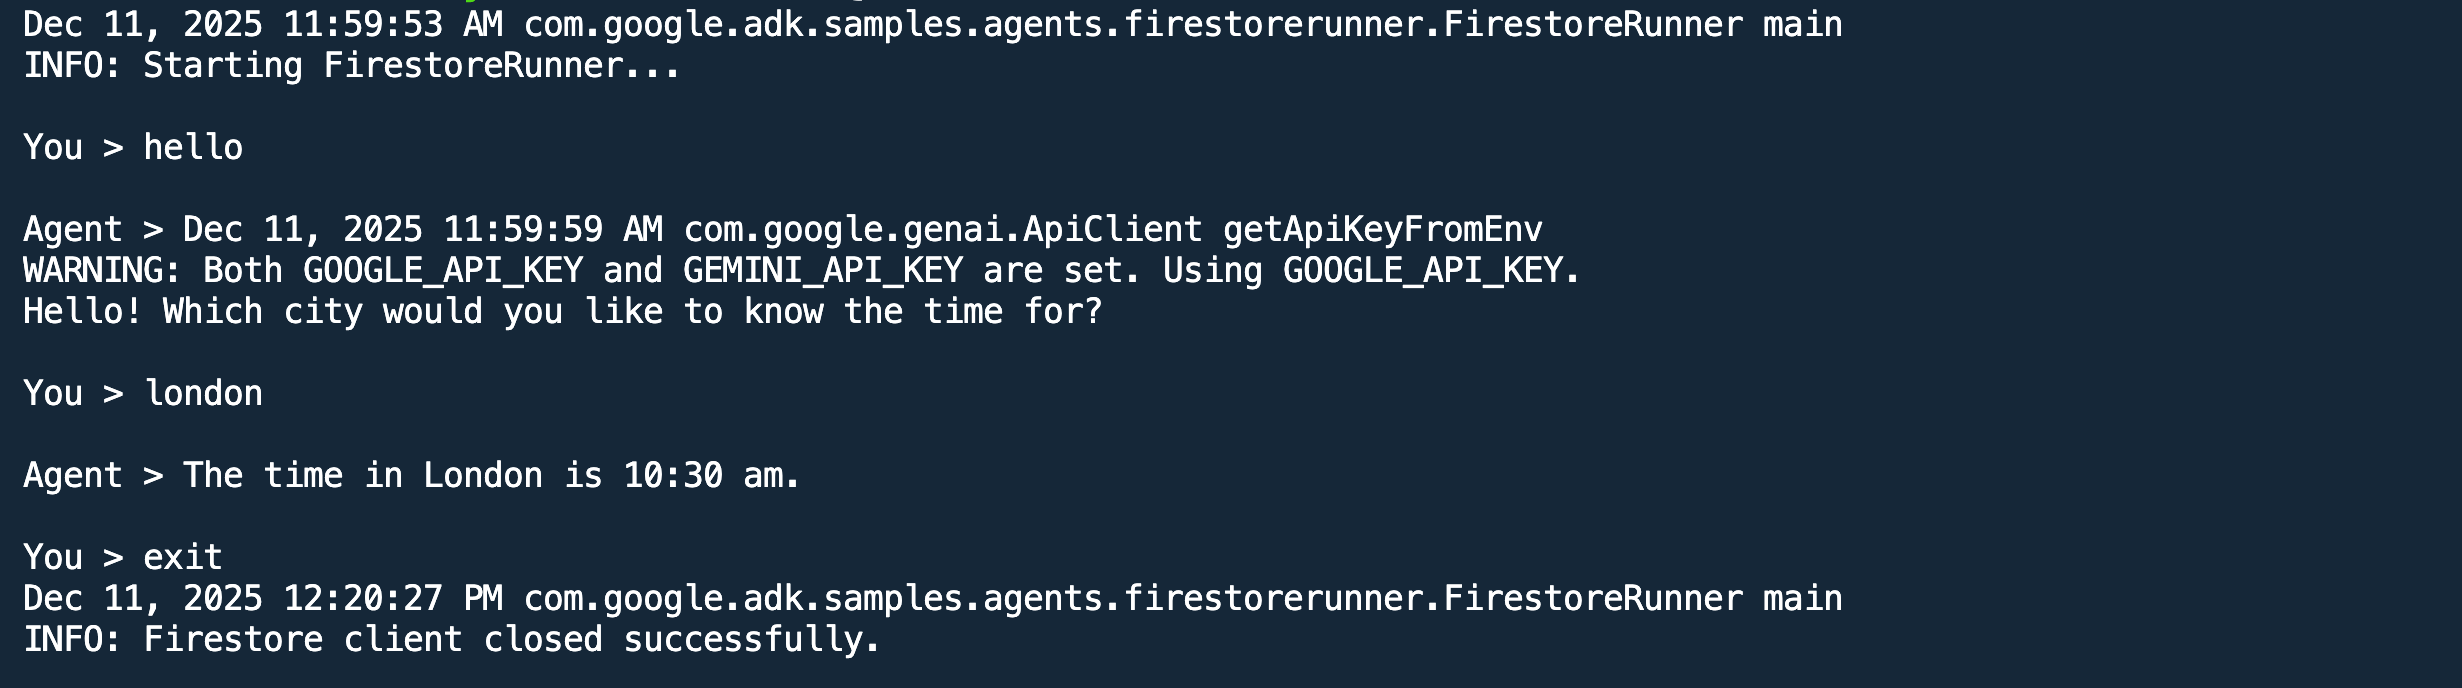
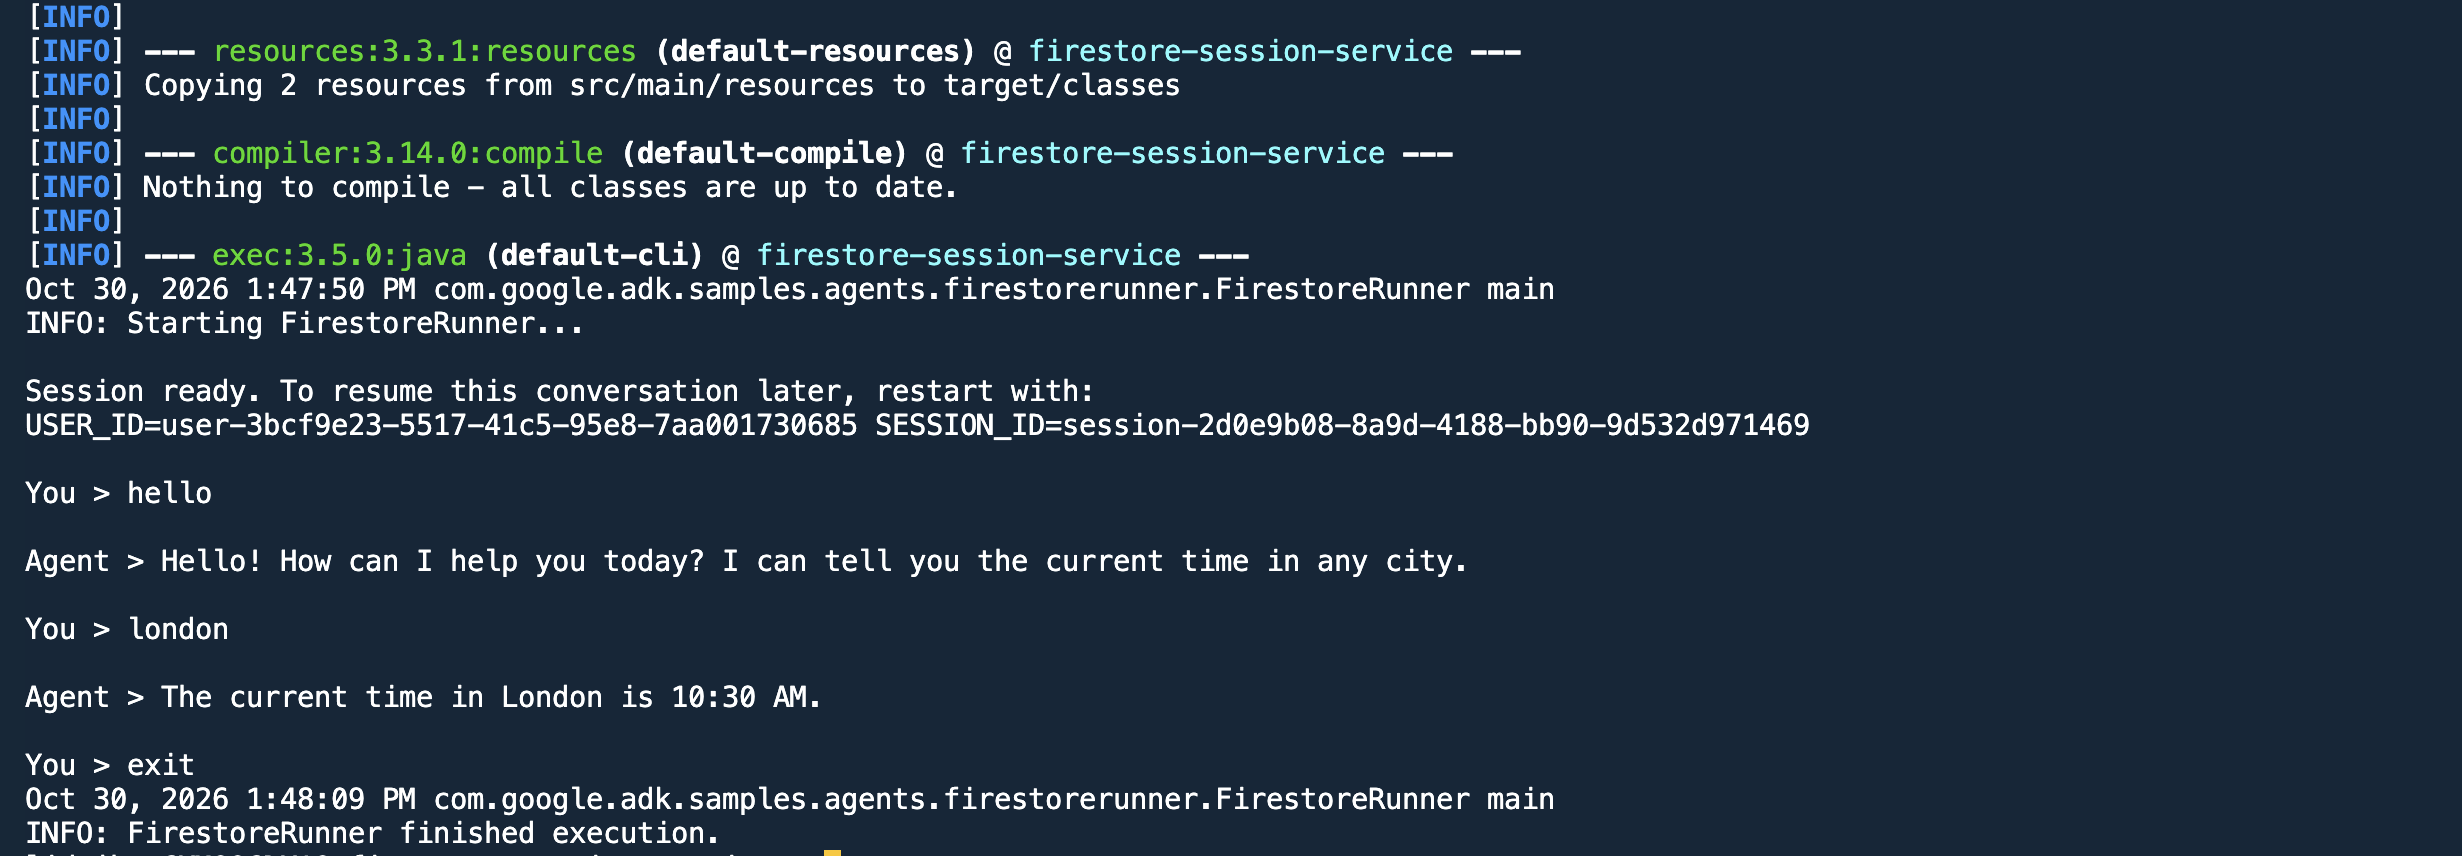
Addressed the review comments

diff --git a/contrib/java/firestore-session-service/src/main/java/com/google/adk/samples/agents/firestorerunner/FirestoreRunner.java b/contrib/java/firestore-session-service/src/main/java/com/google/adk/samples/agents/firestorerunner/FirestoreRunner.java
@@ -1,5 +1,5 @@
 /*
- * Copyright 2025 Google LLC
+ * Copyright 2026 Google LLC
  *
  * Licensed under the Apache License, Version 2.0 (the "License");
  * you may not use this file except in compliance with the License.
@@ -25,6 +25,7 @@ import com.google.adk.events.Event;
 import com.google.adk.runner.FirestoreDatabaseRunner;
 import com.google.adk.sessions.FirestoreSessionService;
 import com.google.adk.sessions.Session;
+import com.google.adk.sessions.SessionNotFoundException;
 import com.google.adk.tools.Annotations.Schema;
 import com.google.adk.tools.FunctionTool;
 import com.google.cloud.firestore.Firestore;
@@ -32,7 +33,9 @@ import com.google.cloud.firestore.FirestoreOptions;
 import com.google.genai.types.Content;
 import com.google.genai.types.Part;
 import io.reactivex.rxjava3.core.Flowable;
+import io.reactivex.rxjava3.core.Maybe;
 import java.util.Map;
+import java.util.Optional;
 import java.util.Scanner;
 import java.util.UUID;
 import java.util.logging.Logger;
@@ -57,17 +60,45 @@ public final class FirestoreRunner {
         Scanner scanner = new Scanner(System.in, UTF_8)) {
 
       FirestoreDatabaseRunner runner = new FirestoreDatabaseRunner(timeAgent, APP_NAME, firestore);
+      FirestoreSessionService sessionService = new FirestoreSessionService(firestore);
 
-      String userId = "user-" + UUID.randomUUID();
-      String sessionId = "session-" + UUID.randomUUID();
+      String userId = System.getenv("USER_ID");
+      String sessionId = System.getenv("SESSION_ID");
 
-      Session session =
-          new FirestoreSessionService(firestore)
-              .createSession(APP_NAME, userId, null, sessionId)
-              .blockingGet();
+      Session session;
+      if (userId != null && !userId.isBlank() && sessionId != null && !sessionId.isBlank()) {
+        String resumeUserId = userId;
+        String resumeSessionId = sessionId;
+        session =
+            sessionService
+                .getSession(APP_NAME, resumeUserId, resumeSessionId, Optional.empty())
+                .onErrorResumeNext(
+                    error ->
+                        error instanceof SessionNotFoundException
+                            ? sessionService
+                                .createSession(APP_NAME, resumeUserId, null, resumeSessionId)
+                                .toMaybe()
+                            : Maybe.error(error))
+                .blockingGet();
+        logger.info("Resumed session " + sessionId + " for user " + userId);
+      } else {
+        userId = "user-" + UUID.randomUUID();
+        sessionId = "session-" + UUID.randomUUID();
+        session = sessionService.createSession(APP_NAME, userId, null, sessionId).blockingGet();
+      }
+
+      System.out.println(
+          "\nSession ready. To resume this conversation later, restart with:\n"
+              + "USER_ID="
+              + userId
+              + " SESSION_ID="
+              + sessionId);
 
       while (true) {
         System.out.print("\nYou > ");
+        if (!scanner.hasNextLine()) {
+          break;
+        }
         String userInput = scanner.nextLine();
         if ("quit".equalsIgnoreCase(userInput) || "exit".equalsIgnoreCase(userInput)) {
           break;
@@ -90,12 +121,15 @@ public final class FirestoreRunner {
     }
 
     logger.info("FirestoreRunner finished execution.");
+    // The Gemini API client leaves non-daemon OkHttp threads running; force
+    // a clean exit instead of waiting on them to time out.
+    System.exit(0);
   }
 
   @Schema(description = "Get the current time for a given city")
   public static Map<String, String> getCurrentTime(
       @Schema(name = "city", description = "Name of the city to get the time for") String city) {
-    return Map.of("city", city, "forecast", "The time is 10:30 am.");
+    return Map.of("city", city, "time", "The time is 10:30 am.");
   }
 
   protected static BaseAgent initAgent(String agentName) {

diff --git a/contrib/java/firestore-session-service/src/test/java/com/google/adk/samples/agents/firestorerunner/FirestoreRunnerTest.java b/contrib/java/firestore-session-service/src/test/java/com/google/adk/samples/agents/firestorerunner/FirestoreRunnerTest.java
@@ -1,5 +1,5 @@
 /*
- * Copyright 2025 Google LLC
+ * Copyright 2026 Google LLC
  *
  * Licensed under the Apache License, Version 2.0 (the "License");
  * you may not use this file except in compliance with the License.
@@ -35,9 +35,9 @@ public class FirestoreRunnerTest {
     assertNotNull(result);
     assertEquals(2, result.size());
     assertTrue(result.containsKey("city"));
-    assertTrue(result.containsKey("forecast"));
+    assertTrue(result.containsKey("time"));
     assertEquals("London", result.get("city"));
-    assertEquals("The time is 10:30 am.", result.get("forecast"));
+    assertEquals("The time is 10:30 am.", result.get("time"));
   }
 
   @Test

diff --git a/contrib/java/firestore-session-service/README.md b/contrib/java/firestore-session-service/README.md
@@ -65,8 +65,15 @@ Agent > The time in London is 10:30 am.
 You > quit
 ```
 
-Session state is written to Firestore after every turn, so you can stop and
-restart the agent and the session history will be preserved.
+Session state is written to Firestore after every turn. On startup, the agent
+prints a `USER_ID`/`SESSION_ID` pair; set these as environment variables on
+your next run to resume the same conversation with its history intact:
+
+```bash
+USER_ID=user-... SESSION_ID=session-... mvn compile exec:java -Dexec.mainClass="com.google.adk.samples.agents.firestorerunner.FirestoreRunner"
+```
+
+Without them, each run starts a brand-new session.
 
 ![Console Output](console_output.png)
 
